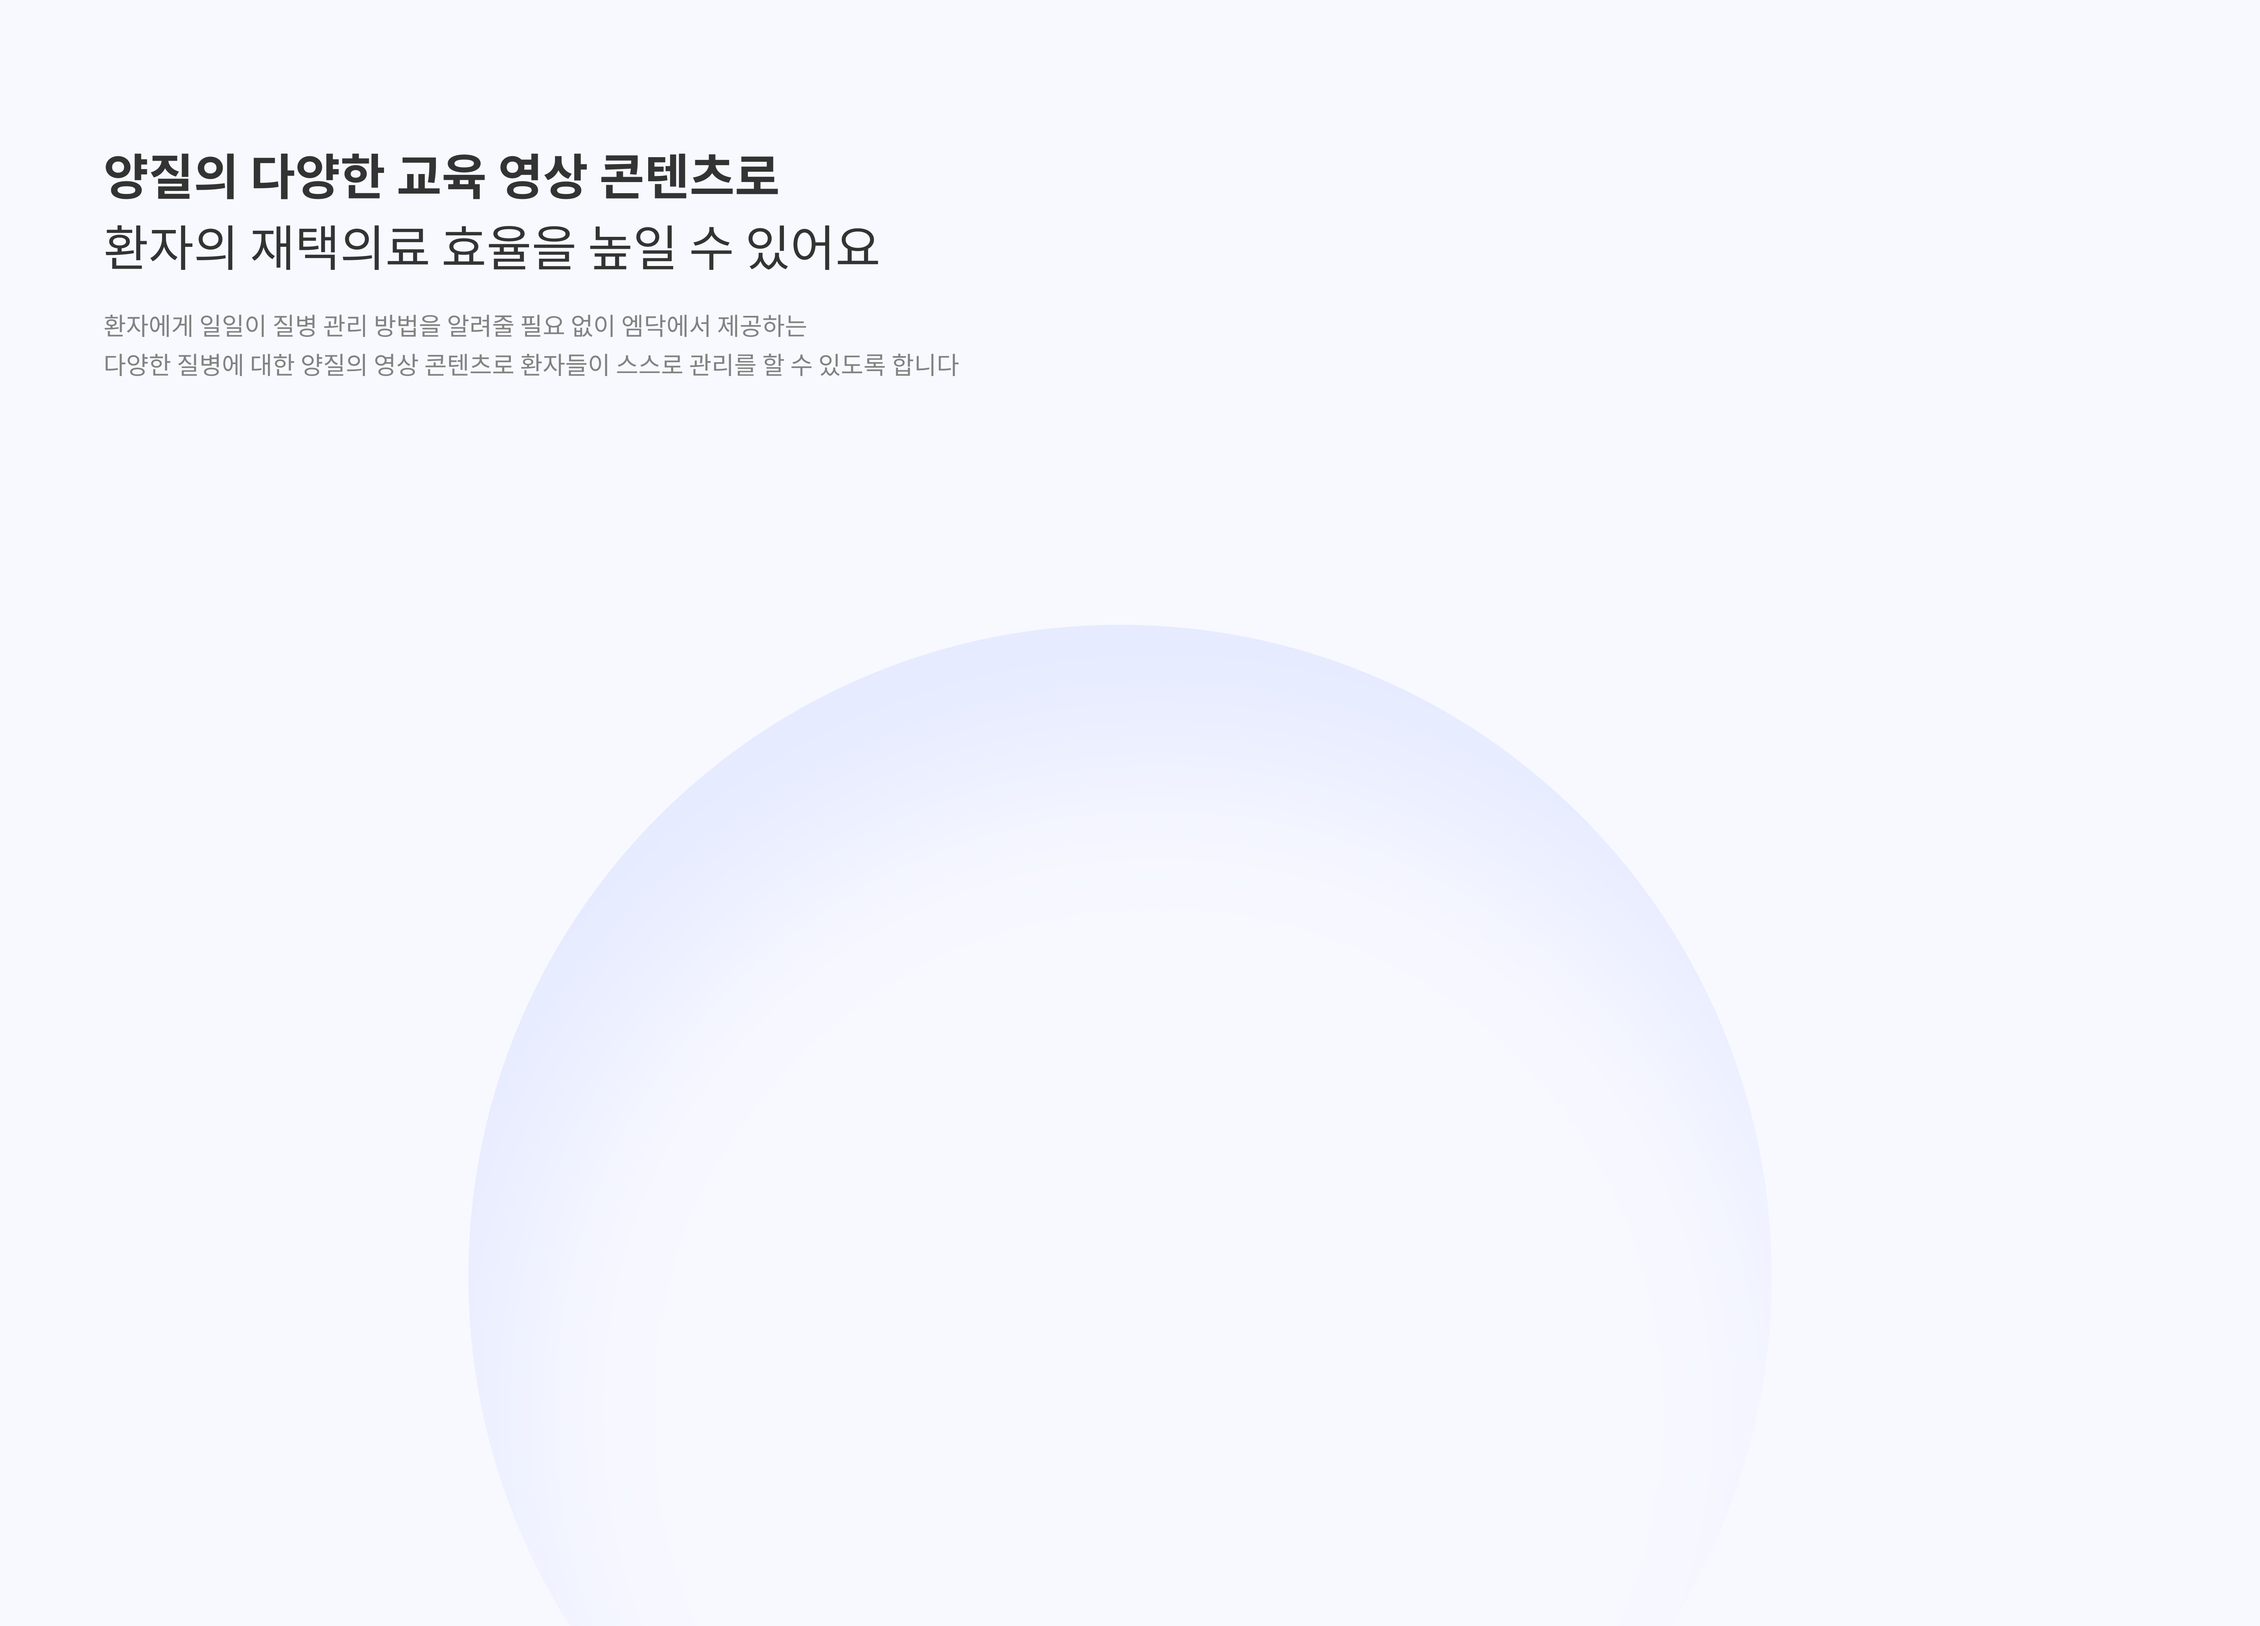
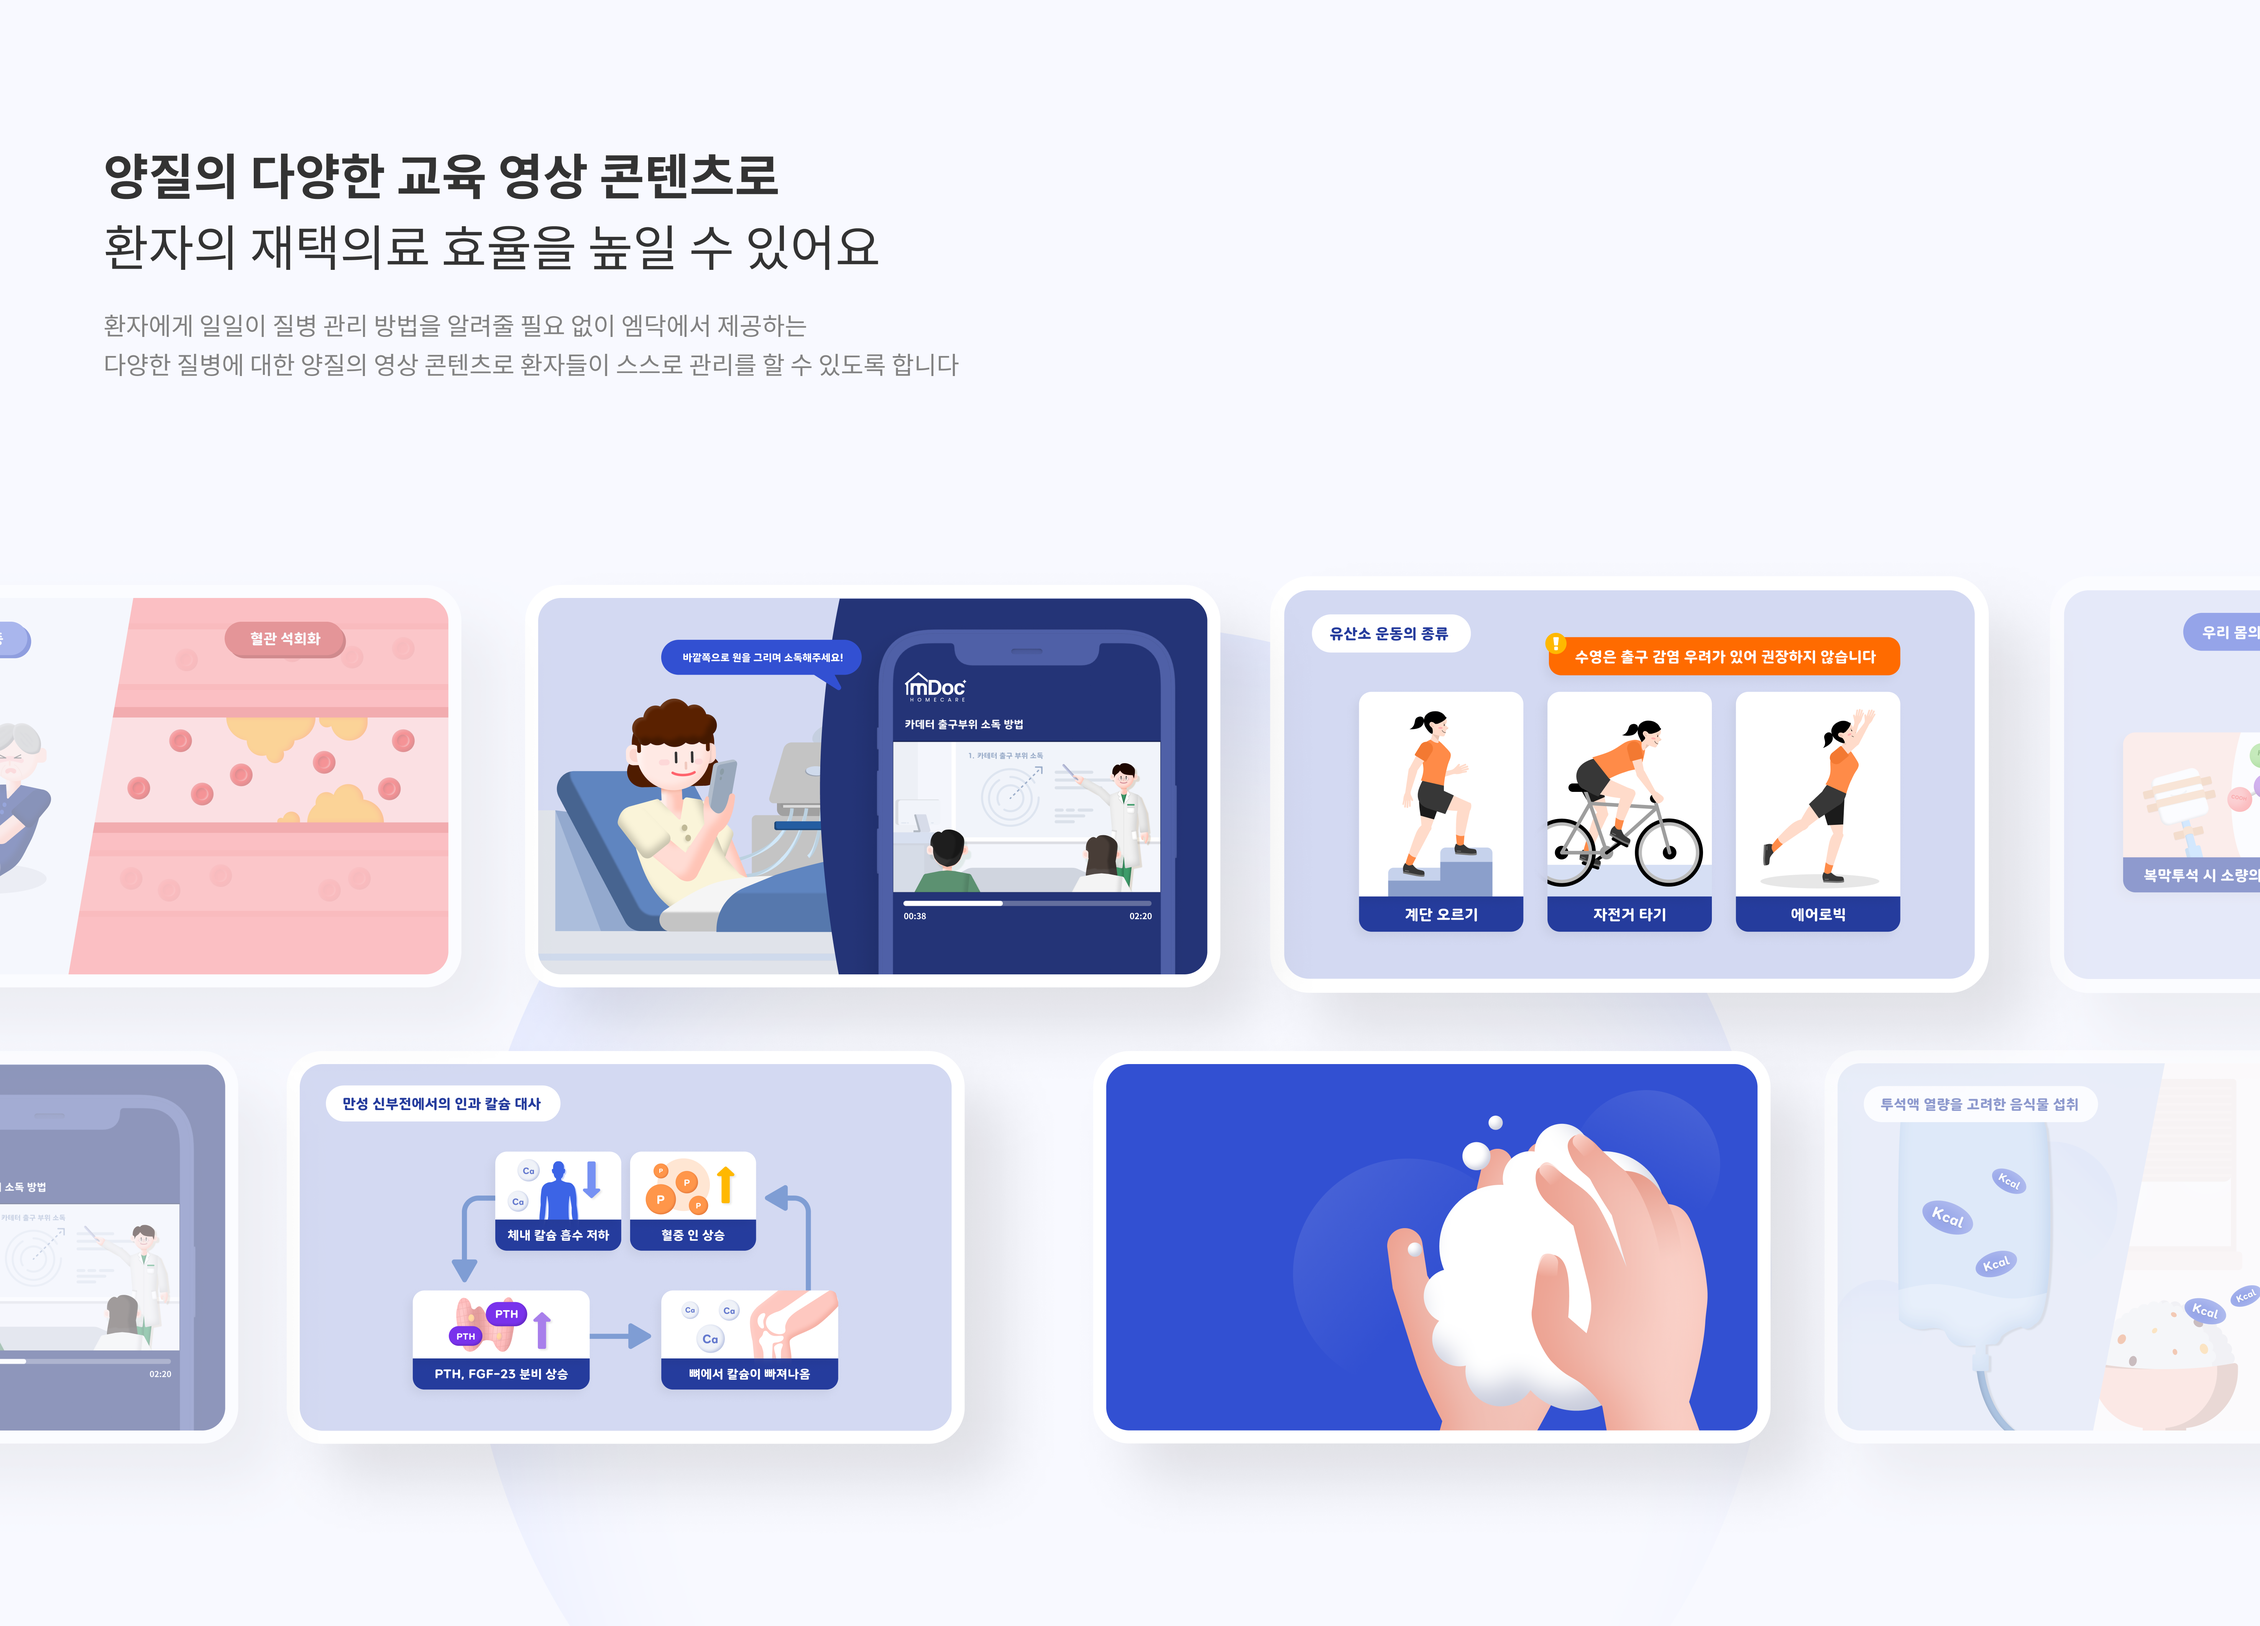
edu done

diff --git a/src/home/Home.scss b/src/home/Home.scss
@@ -82,6 +82,7 @@
   align-items: center;
   justify-content: center;
   text-align: center;
+  border:2px solid #e6edfa;
   .Img{
     display: flex;
     padding: 20px;
@@ -123,7 +124,7 @@
   span {
     font-size: 16px;
     text-align: center;
-    color: rgb(120,120,120);
+    color: rgb(38, 24, 24);
     line-height: 1.6;
 
     strong {
@@ -142,30 +143,54 @@
     width: initial;
     grid-template-rows: repeat(2, 1fr);
     grid-template-columns: repeat(2, 1fr);
-    gap: 10vw;
+    gap: 8vw;
     justify-items: center;
   }
 
   .card {
     font-size: 20vw;
-    width: 35vw;
-    height: 50vw;
+    width: 30vw;
+    height: 5vw;
   }
+
+
+.description{
+  padding: 0px 8px;
+ 
+
+  .first-line{
+    display: flex;
+  }
+
+  span {
+    font-size: 14px;
+    text-align: center;
+    color: rgb(38, 24, 24);
+    line-height: 1.3;
+
+    strong {
+      font-size: 14px;
+      color: $mdoc-brand-blue;
+    }
+  }
+
+}
 }
 
 .contentsContainer{
-  display: flex;
-  flex-direction: column;
-  align-items: center;
-  justify-content: center;
+  // display: flex;
+  // flex-direction: column;
+  // align-items: center;
+  // justify-content: center;
   width: 100%;
-  height: 100vh;
+  height: 300vh;
   
 
 }
 
 .contentsBack{
-  width: 100%;
+  position: sticky;
+  top: 0;
   height: 100vh;
   display: flex;
   flex-direction: column;
@@ -175,12 +200,11 @@
   background-size: contain;
   background-repeat: no-repeat;
   background-position: center;
-  background-image: url( "../general/img/background3.png" );
+  background-image: url( "../general/img/background2.png" );
 }
 
-.thumnailBack{
-  position:absolute;
-  width: 100%;
+.contentsBack1{
+  position: absolute;
   height: 100vh;
   display: flex;
   flex-direction: column;
@@ -191,6 +215,23 @@
   background-repeat: no-repeat;
   background-position: center;
   background-image: url( "../general/img/backThumnail.png" );
+  z-index: 100;
+}
+
+.thumnailBack{
+  position: sticky;
+  top: 0;
+  width: 100%;
+  height: 100vh;
+  display: flex;
+  flex-direction: column;
+  align-items:center;
+  justify-content: flex-end;
+  overflow: hidden;
+  background-size: contain;
+  background-repeat: no-repeat;
+  background-position: center;
+  background-image: url( "../general/img/phone.png" );
 }
 
 

diff --git a/src/home/Home.js b/src/home/Home.js
@@ -247,15 +247,10 @@ const Home = () => {
         </div>
         {/* 교육영상 */}
         <div class = "contentsContainer">
-          <div class = "contentsBack">
-            {/* <div class = "thumnailFrame1">
-              
-            </div>
-            <div class = "thumnailFrame2">
-              
-            </div> */}
+          <div class = "contentsBack" style={{opacity: (scrollPosition - 9400)/1000}}>
+        
           </div>
-          <div class = "thumnailBack" style={{opacity: (scrollPosition - 8800)/1000}}>
+          <div class = "thumnailBack" >
 
           </div>
         </div>
